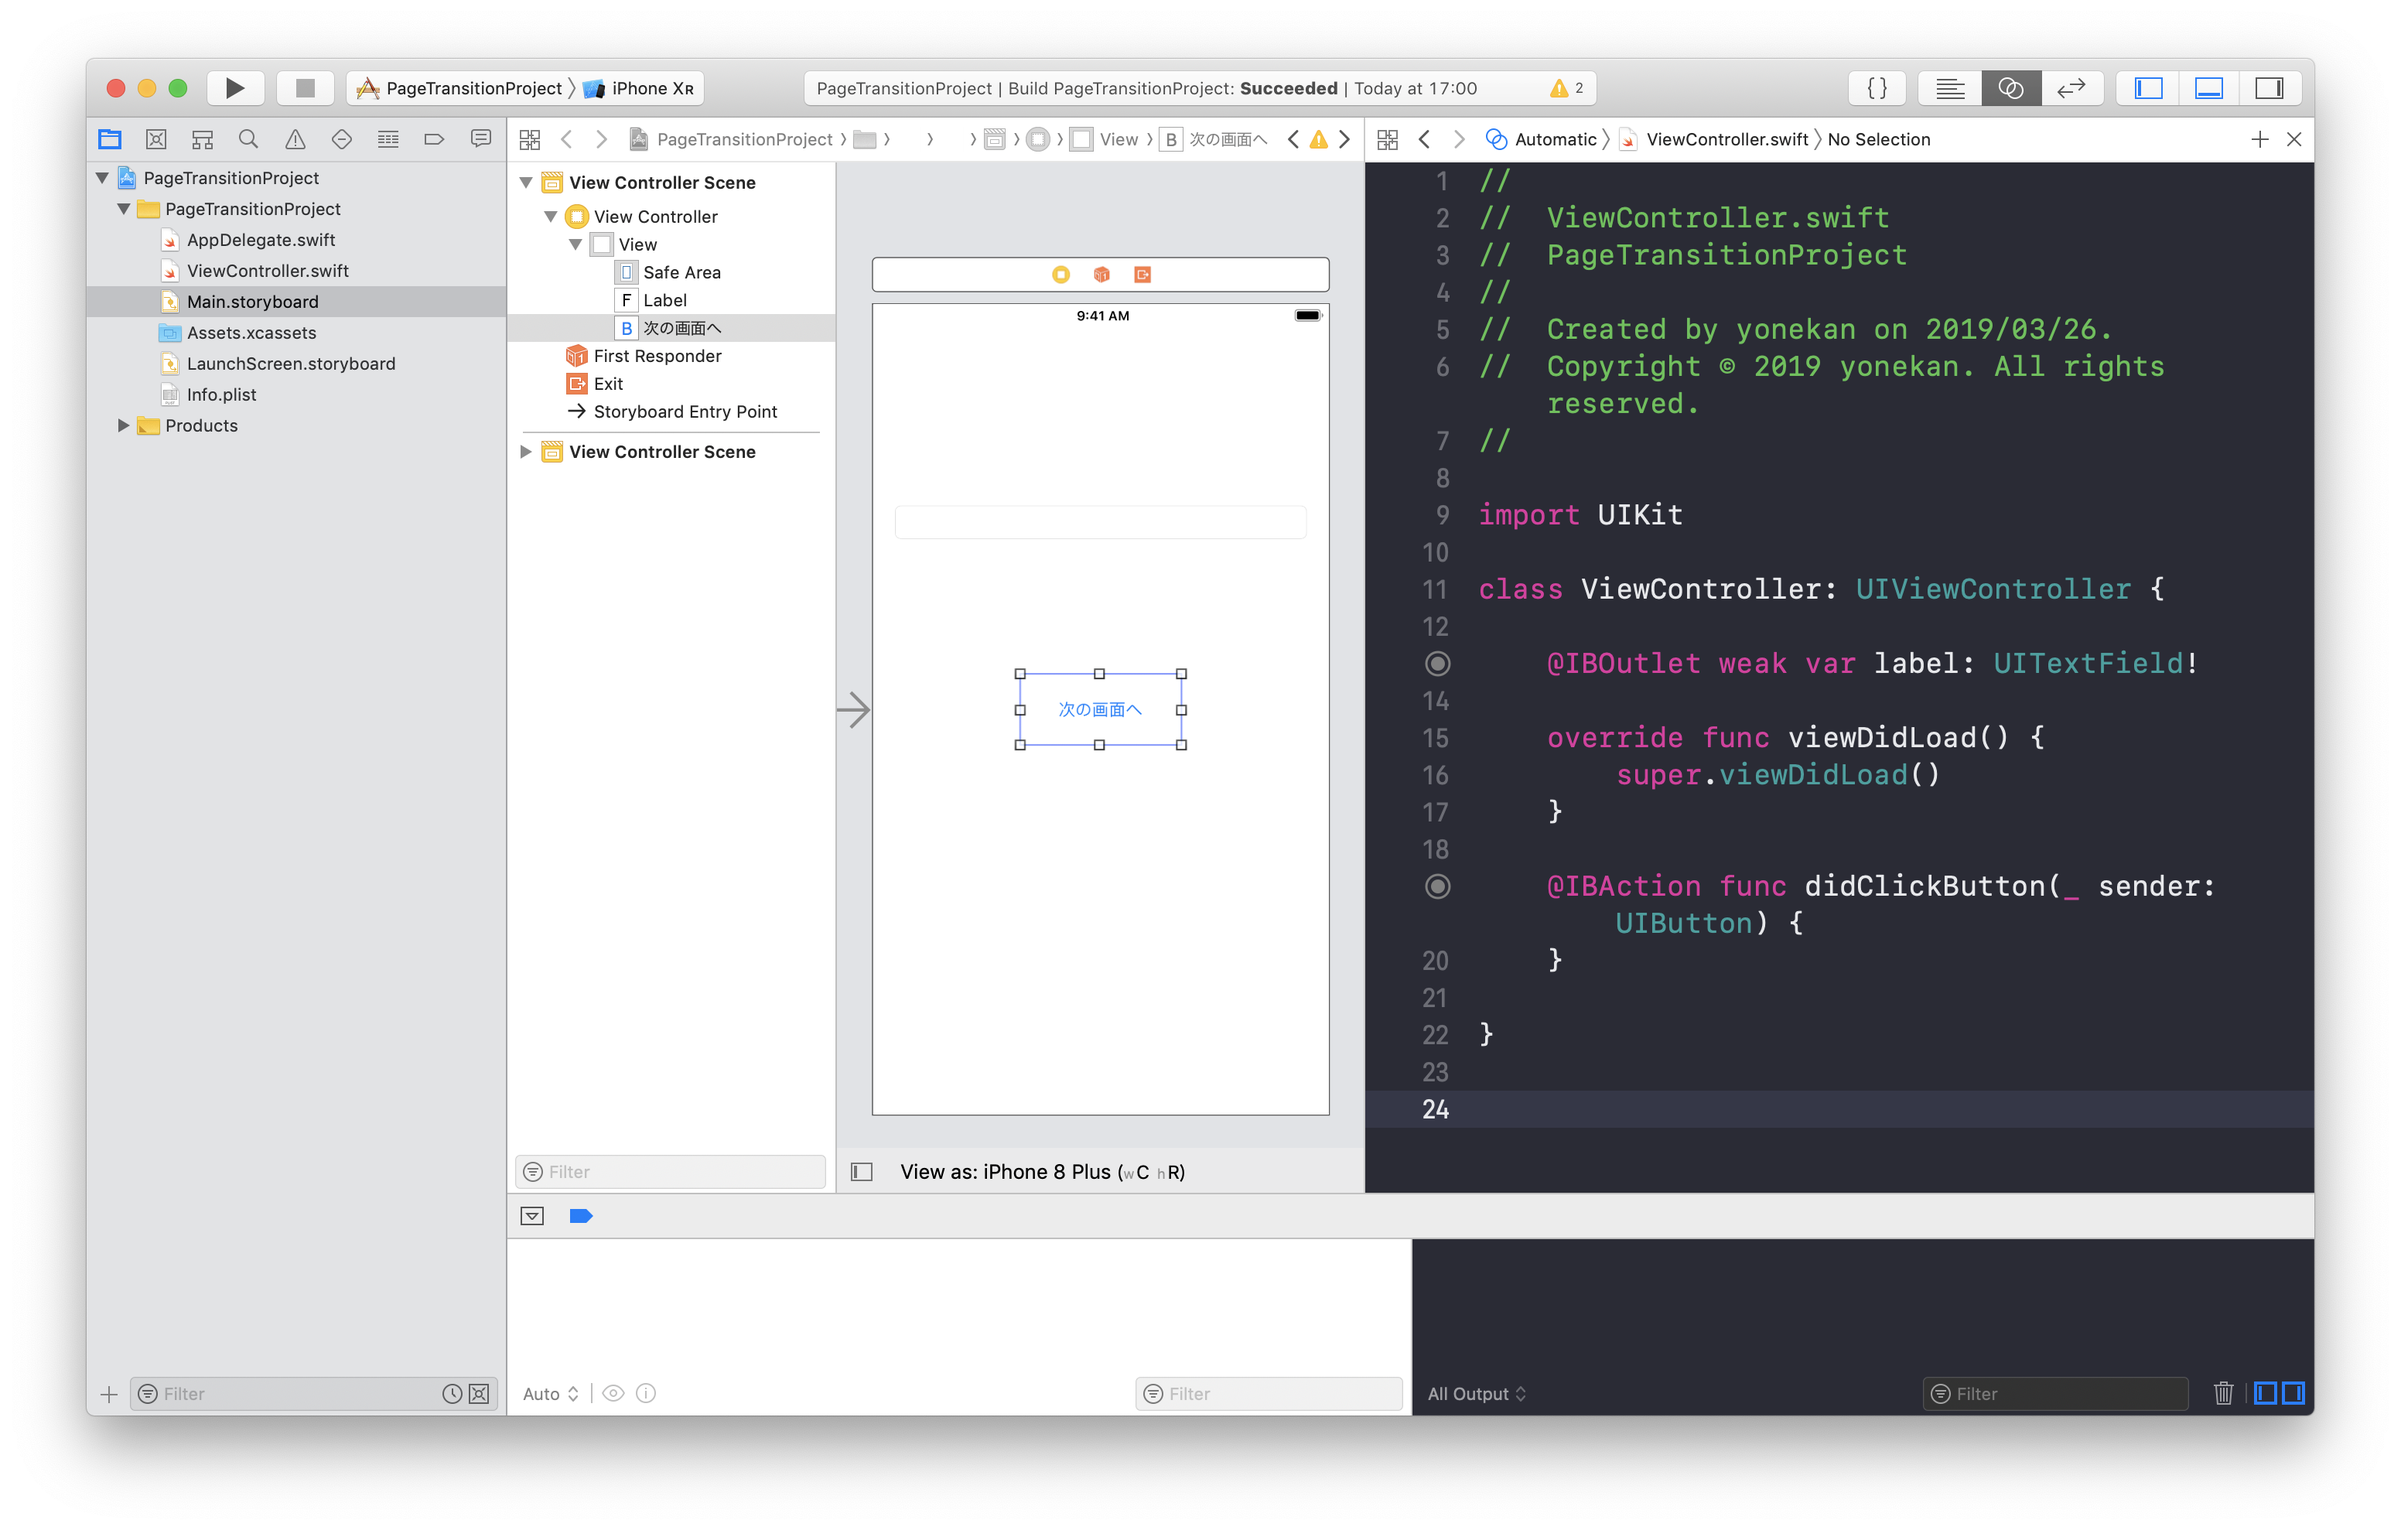
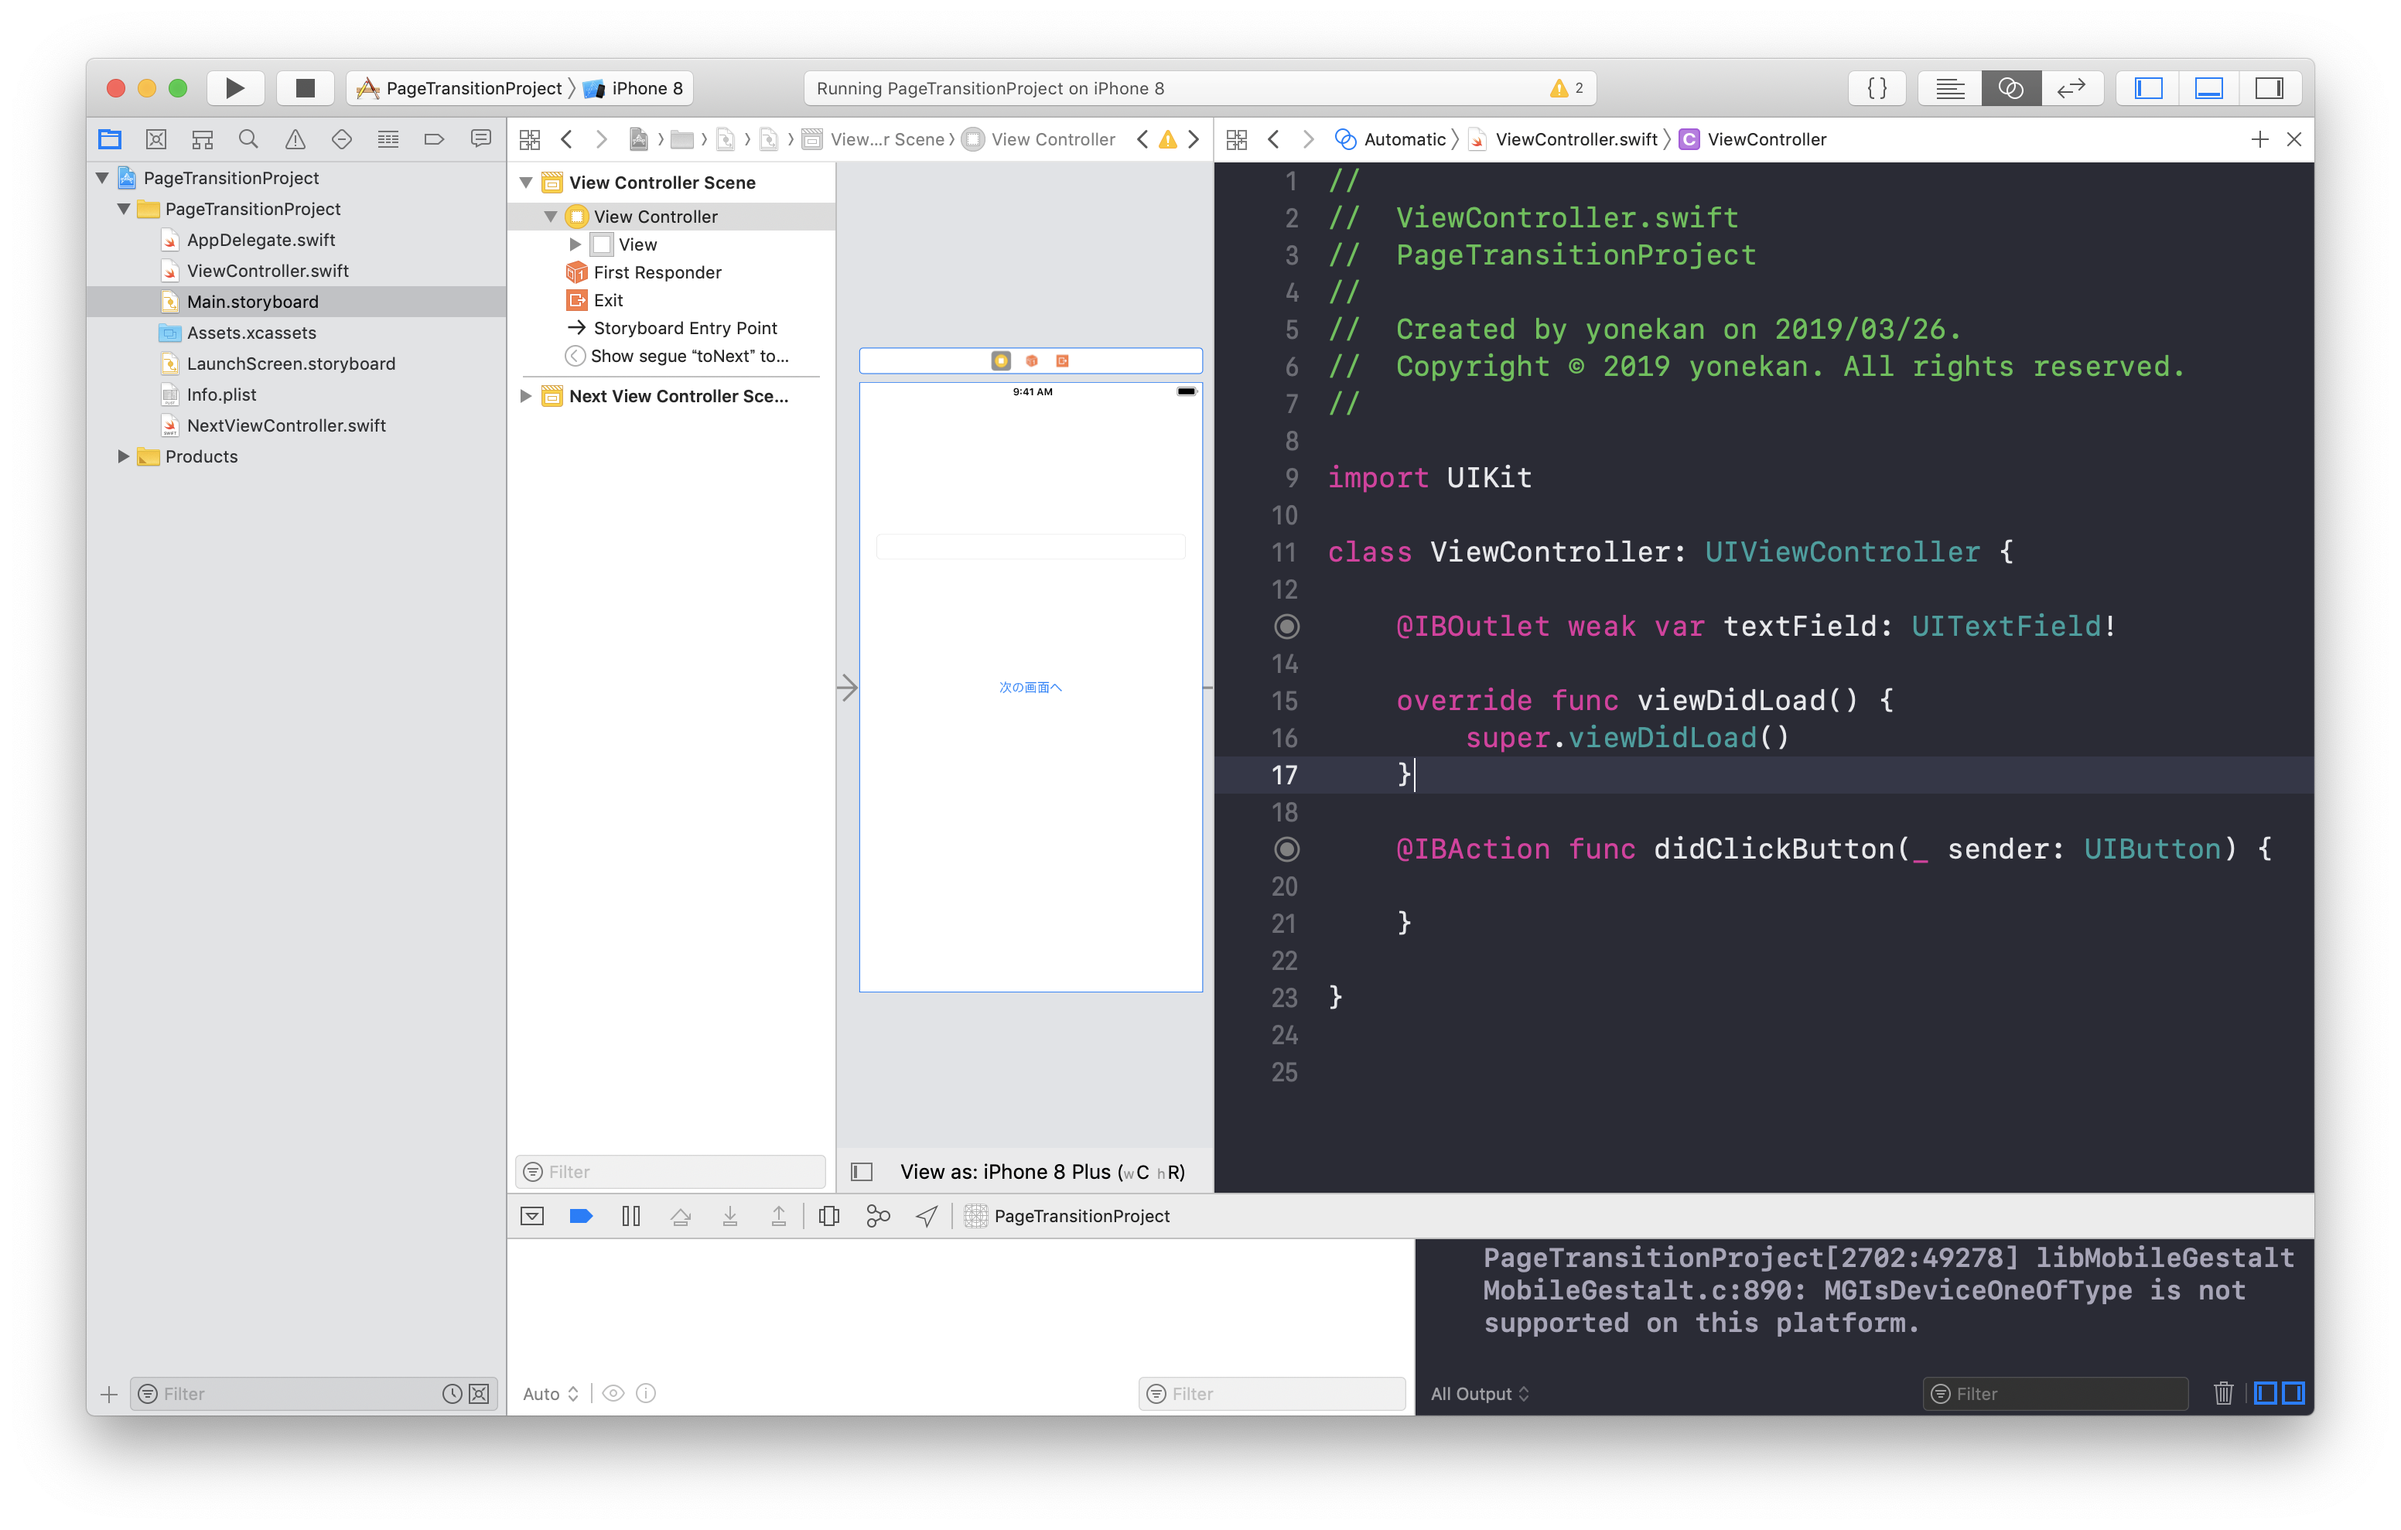
no message

diff --git a/swift/02_UIParts/各パーツ/16_画面遷移.md b/swift/02_UIParts/各パーツ/16_画面遷移.md
@@ -19,24 +19,25 @@
 	アプリ名：PageTransitionProject
 	
 2. 画面の部品を配置する
-	1. TextField, Buttonを以下のように配置する。
-		![Swiftロゴ](./img/place_page_tran.png)
+	1. TextField, Buttonを以下のように配置する。  
+		<img src="./img/place_page_tran.png" width="300px">
 
 	2. ViewController（次画面）を配置する。
 		![Swiftロゴ](./img/place_page_tran2.png)
 
 3. 配置した画面の部品をプログラムで扱えるよう設定する
 	1. 配置したTextField, ButtonをViewController.swiftに接続する。
-	|部品|接続時のName|
-	|---|---|
-	|UITextField|textField|
-	|UIButton|didClickButton|
+
+		|部品|接続時のName|
+		|---|---|
+		|UITextField|textField|
+		|UIButton|didClickButton|
 
 	![Swiftロゴ](./img/connect_page_tran.png)
 
 4. 画面遷移の処理を書く
-	1. Main.storyboardでTop画面と次画面を接続する。
-		TOP画面を選択し、Ctrlキーを押しながら、次画面までドラッグする。 
+	1. Main.storyboardでTop画面と次画面を接続する。  
+		TOP画面を選択し、Ctrlキーを押しながら、次画面までドラッグする。   
 		接続時に表示されたウィンドウで、「show」を選択する
 
 		![Swiftロゴ](./img/connect_top_to_next.gif)
@@ -54,16 +55,22 @@
 		```
 
 		追記後のdidClickButton
+		
 		```
 		@IBAction func didClickButton(_ sender: UIButton) {
 			performSegue(withIdentifier: "toNext", sender: nil)
 		}
 		```
 
+		> 解説  
+		> performSegueは画面遷移のための関数です。  
+		> withIdentifierには矢印の名前（identifier）を、
+		> senderには遷移先の画面に渡したい値を設定します。
+
 	4. 実行してみる
-		以下のようになればOKです
+		以下のようになればOKです  
 		
-		![Swiftロゴ](./img/page_tran_1.gif)
+		<img src="./img/page_tran_1.gif" width="300px">
 
 5. 次画面に値を渡す処理を書く
 	1. 次画面の準備
@@ -74,10 +81,11 @@
 			![Swiftロゴ](./img/connect_next_vc.gif)
 
 		3. UILabelを配置する
-			UILabelを以下のように配置する。
-			![Swiftロゴ](./img/place_label_on_next.png)
+			UILabelを以下のように配置する。  
+			<img src="./img/place_label_on_next.png" width="300px">
 
 		4. 配置したUILabelをNextViewController.swiftに接続する。
+
 			|部品|接続時のName|
 			|---|---|
 			|UILabel|label|
@@ -93,23 +101,84 @@
 			```
 			class NextViewController: UIViewController {
 
-    		@IBOutlet weak var label: UILabel!
+    			@IBOutlet weak var label: UILabel!
     
-    		var value = "空です"
+    			var value = "空です"
     
-    		override func viewDidLoad() {
-        	super.viewDidLoad()
+    			override func viewDidLoad() {
+        			super.viewDidLoad()
         
-        	label.text = value
-    		}
+        			label.text = value
+    			}
 
 			}
 			```
 
 			6. 実行してみる
-				以下のようになればOKです
-		
-				![Swiftロゴ](./img/page_tran_2.gif)
+				以下のようになればOKです  
+				<img src="./img/page_tran_2.gif" width="300px">
 			
 	2. ViewController.swiftでNextViewController.swiftに値を渡す処理を書く
+		1. didClickButtonにテキストフィールドの値を次画面に渡す処理を追記する。
+
+			追記後のdidClickButton
+			
+			```
+			@IBAction func didClickButton(_ sender: UIButton) {
+		      	let inputValue = textField.text
+        		performSegue(withIdentifier: "toNext", sender: inputValue)
+    		}
+			```
+
+			> 解説  
+			> performSegueの引数senderにテキストフィールドの入力値を設定しています。  
+			> senderには遷移先の画面に渡したい値を設定します。
+
+		2. 次画面に渡す値を次画面のViewControllerの特定のプロパティ（変数）に設定する。
+			1. ```prepare```メソッドを追記する
+
+				```
+				override func prepare(for segue: UIStoryboardSegue, sender: Any?) {
+        			<#code#>
+    			}
+				```
+
+				![Swiftロゴ](./img/tran_prepare.gif)
+
+			2. 追記した```prepare```メソッド内でテキストフィールドの入力値をNextViewController.swiftの変数valueに設定する。  
+				以下の処理を追記する。
+				
+				```
+				if segue.identifier == "toNext" {
+            		let nextVC = segue.destination as! NextViewController
+            		nextVC.value = sender as! String
+        		}
+				```
+
+				追記後のprepareメソッド
+
+				```
+				override func prepare(for segue: UIStoryboardSegue, sender: Any?) {
+        			if segue.identifier == "toNext" {
+          	  		let nextVC = segue.destination as! NextViewController
+            			nextVC.value = sender as! String
+        			}
+    			}
+				```
+
+				#### 解説  ```segue.identifier == "toNext"```について  
+				1つのページから複数のページに遷移することがあります。
+				例えば、1つのページに3つのボタンがあり、それぞれが別のページに遷移するパターンなどがあります。
+				そして、ページ毎に渡す値を変えなければならない状況がでてきます。
+				そこで、```segue.identifier == "toNext"```の部分でこれから遷移しようとしている画面がどの画面なのか判定して、  
+				それぞれの遷移先画面に合わせて渡す値を設定しています。  
+				今回の場合、NextViewController.swiftに遷移する矢印の名前（identifier）は「toNext」なので、その名前を条件に使用しています。
+
+				#### 解説 ```let nextVC = segue.destination as! NextViewController```について  
+				この部分で遷移先画面のViewControllerを取得しています。  
+				取得後、```nextVC.value = sender as! String```として、```didClickButton```内の```performSegue```で設定したsenderの値をNextViewControllerの変数valueに設定しています。
+
+6. 実行してみる  
+	以下のようになればOKです
 		
+	<img src="./img/PageTransitionProject.gif" width="300px">
